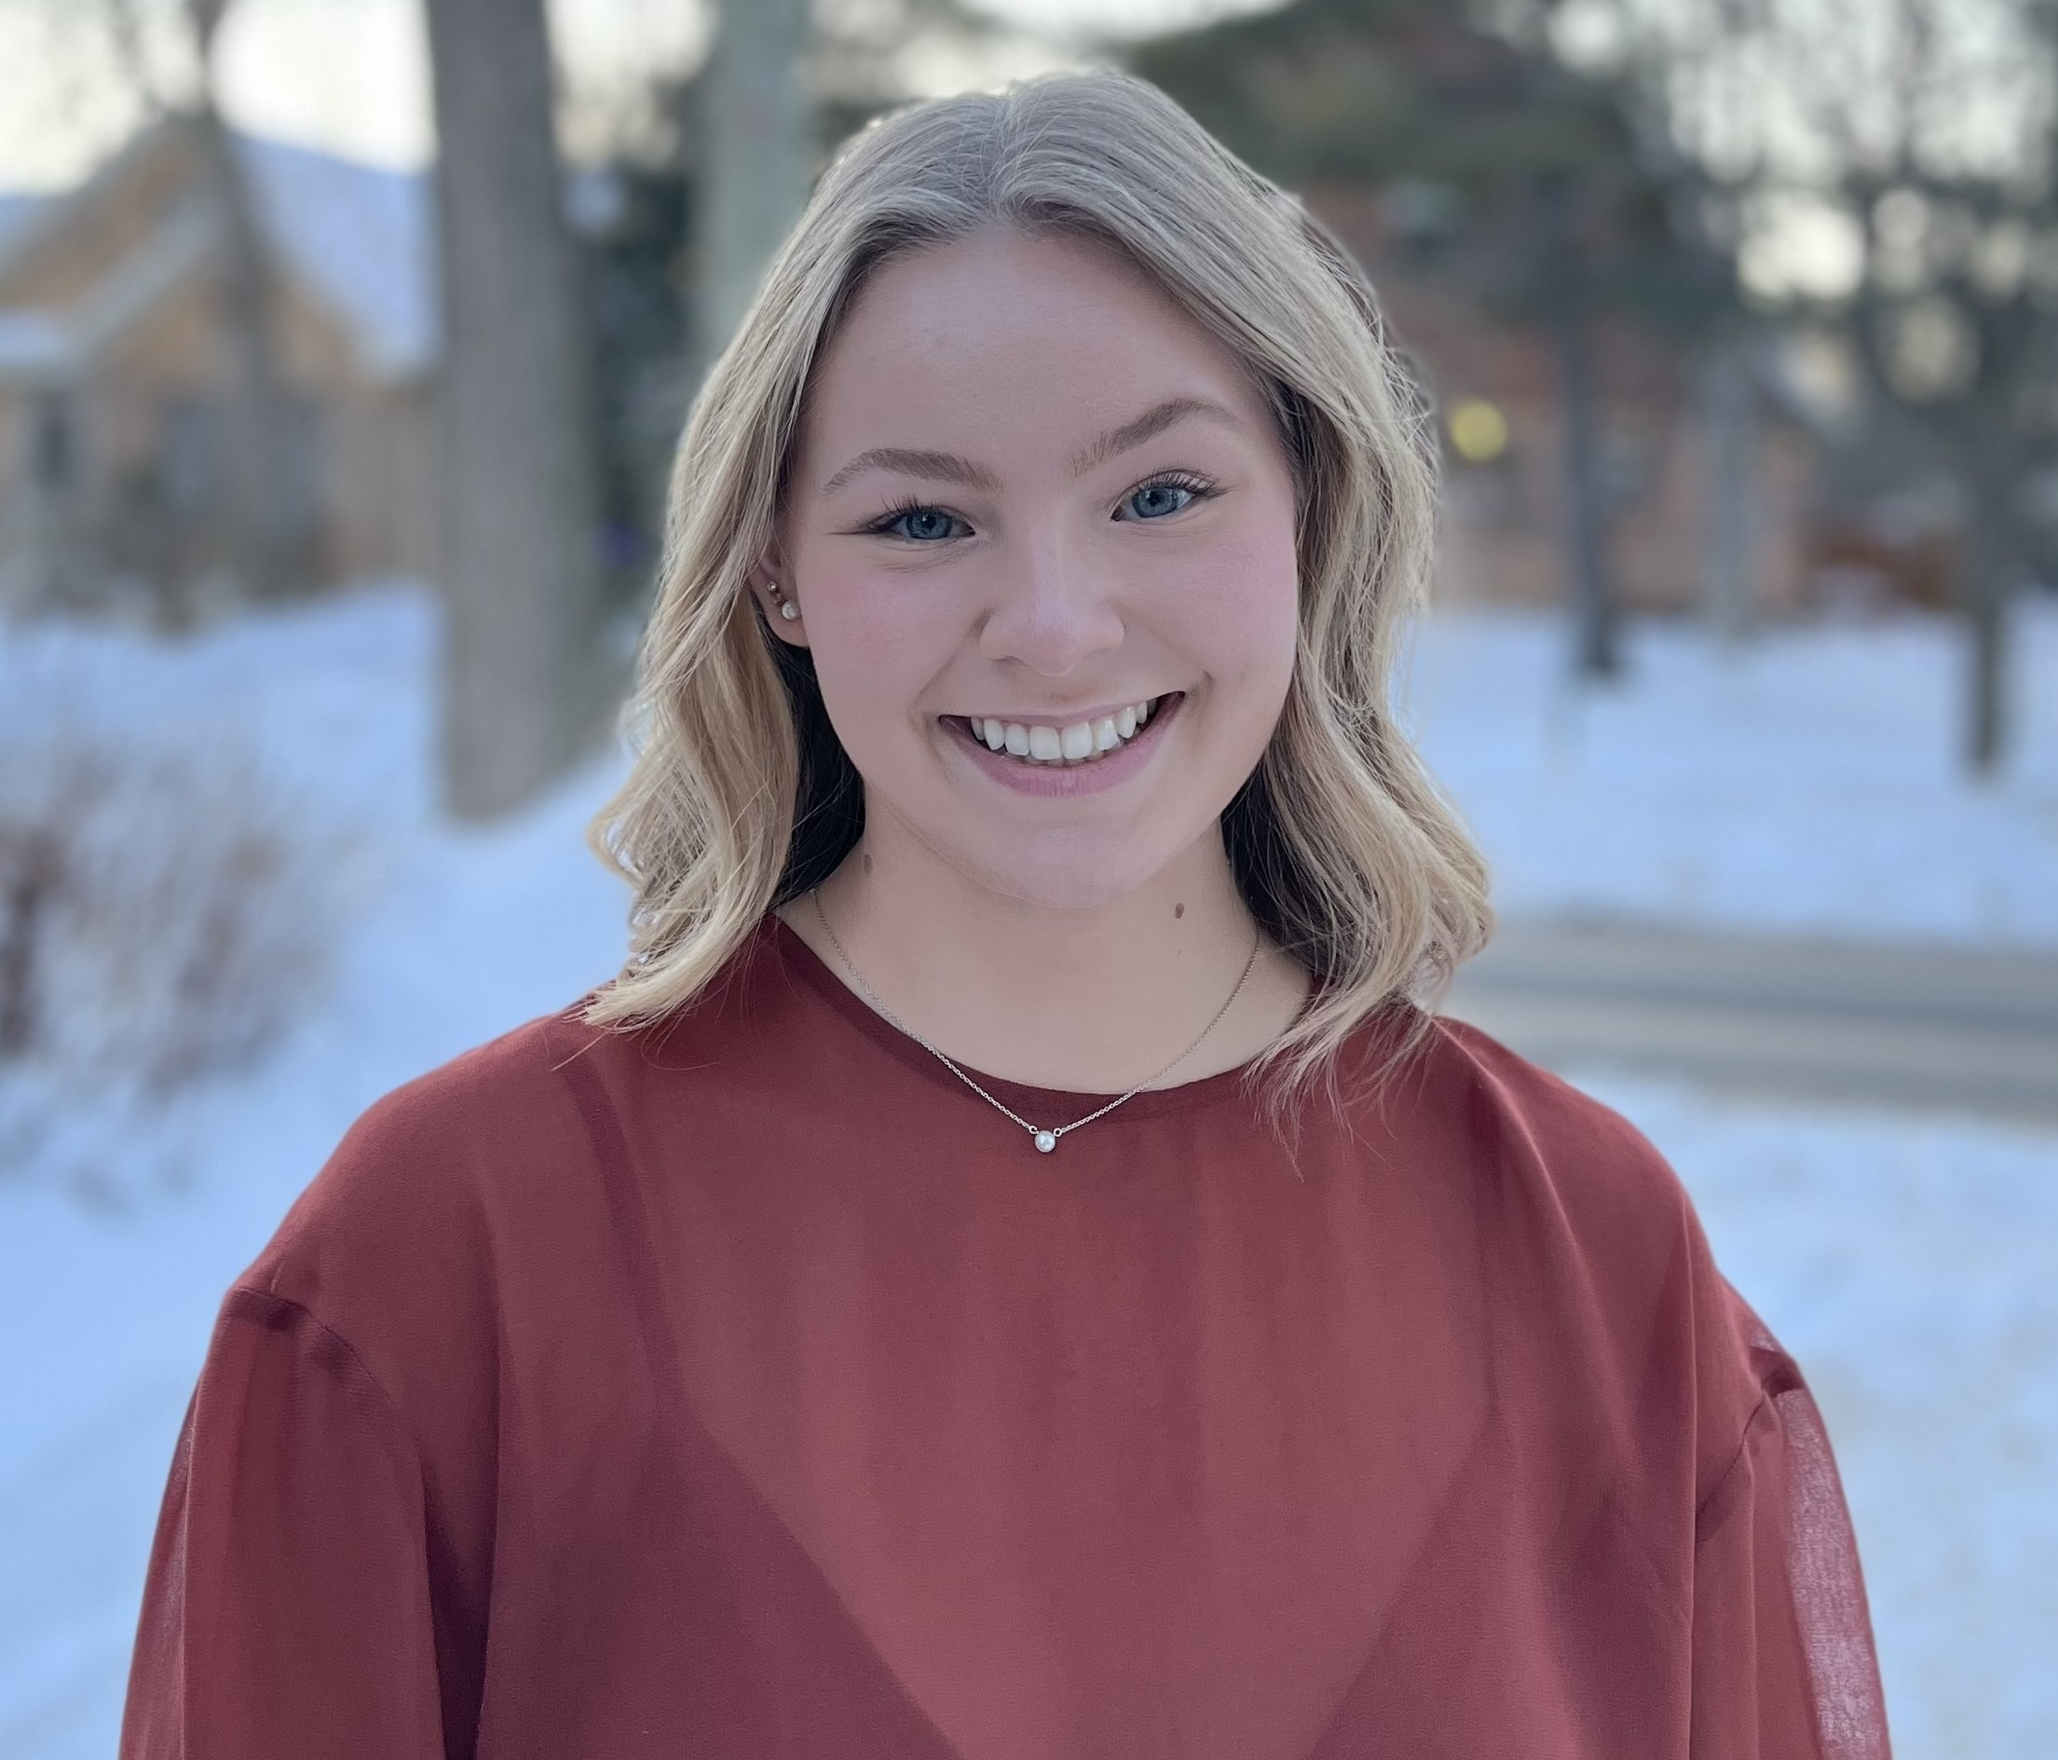
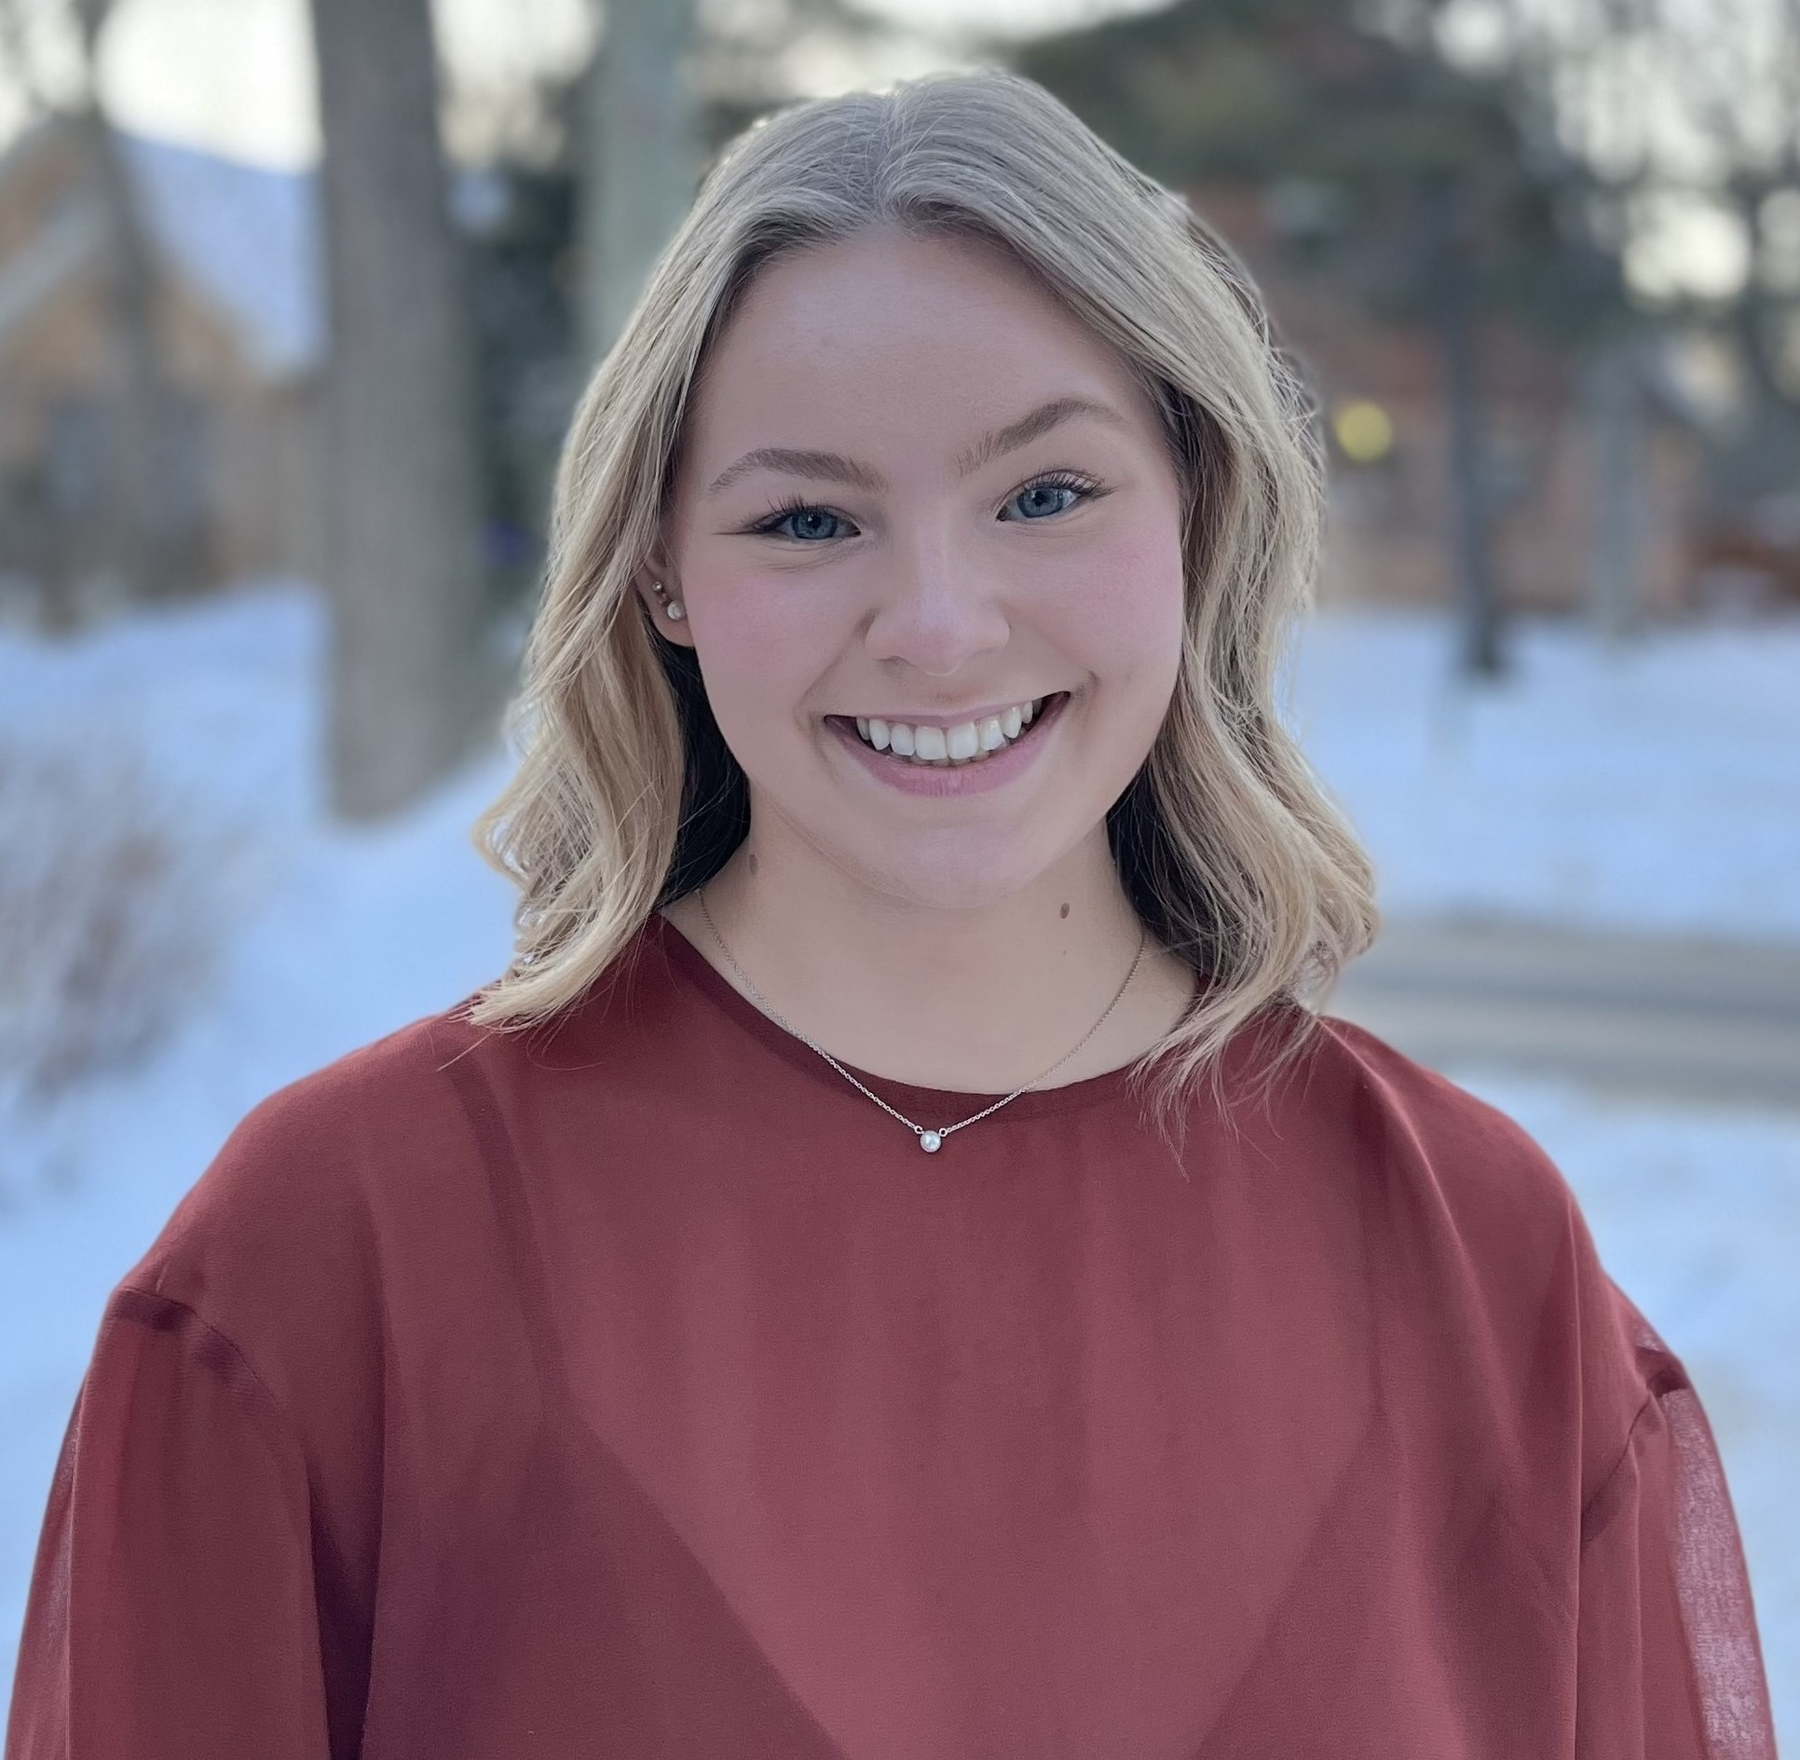
fixed resolution of images

diff --git a/components/Execs.module.css b/components/Execs.module.css
@@ -1,10 +1,11 @@
-    
 
 
 .wrapper{
     margin: 0 auto;
     position: relative;
     width:fit-content;
+    overflow: visible ;
+    
 }
 
 .ourteam{
@@ -25,7 +26,7 @@
 
 .ourTeamWrapper{
     width: 100%;
-    align-self: center;
+    position:center;
     background-color: rgb(39, 36, 36);
     height: 100px;
 }
